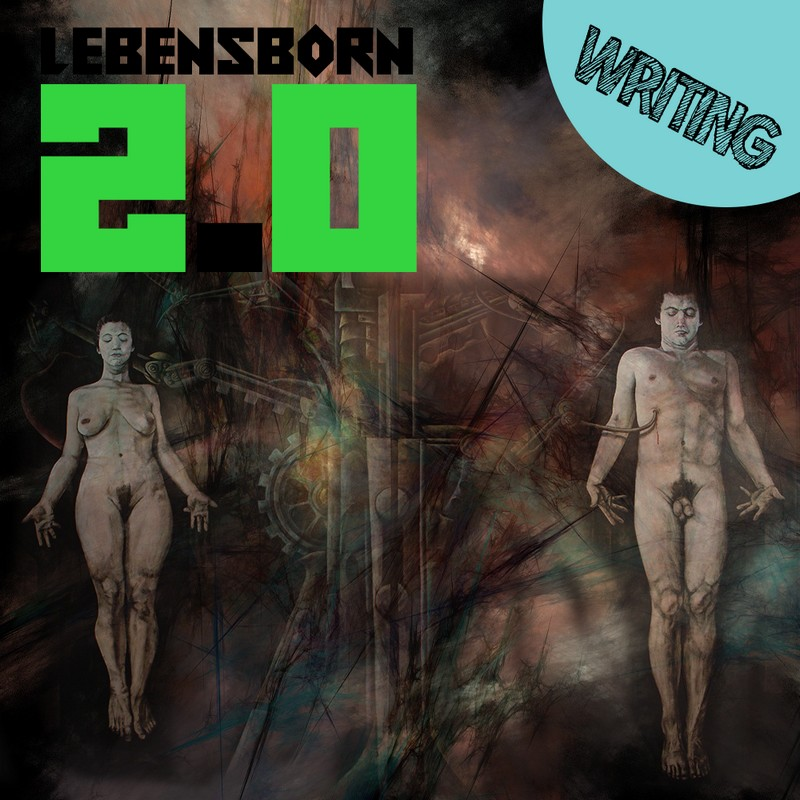
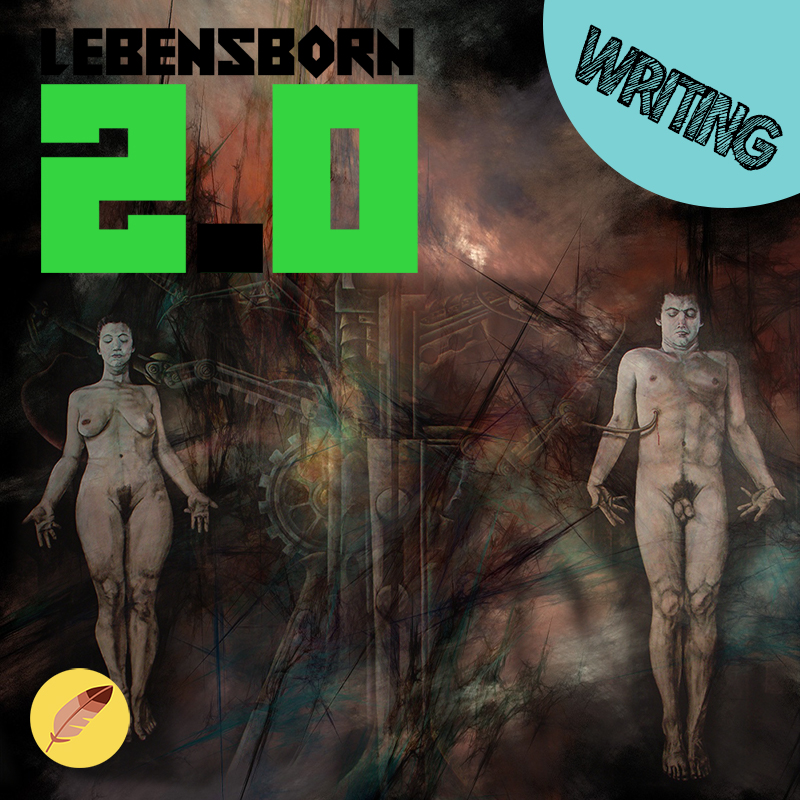
update of games & writing page

diff --git a/gamesandwriting.html b/gamesandwriting.html
@@ -30,6 +30,13 @@
         </ul>
     </nav>
 
+    <div class="small column margin">
+        <p>You will find here a collection of the projects I've written. Any project with the icon <img class="icon"
+                src="./img/writingicone2.png"> contains a readable and/or downloadable writing sample. </p>
+    </div>
+
+    <hr class="separator" style="width: 20%">
+
     <div class='portfolio'>
         <div class='row'>
             <div class='column'>

diff --git a/CSS/general.css b/CSS/general.css
@@ -14,6 +14,10 @@ body {
     flex: 1 0 auto;
 }
 
+.icon {
+    max-width: 40px;
+}
+
 /*HEADER*/
 
 .header {
@@ -83,7 +87,6 @@ footer>p {
 
 .portfolio {
     display: flex;
-    margin-top: 60px;
 }
 
 .row {

diff --git a/CSS/selectionpages.css b/CSS/selectionpages.css
@@ -79,6 +79,11 @@
     height: 20vh;
 }
 
+.margin {
+    margin-top: 3vh;
+    margin-bottom: 3vh;
+}
+
 @media only screen and (max-width: 600px) {
     .longrow {
         flex-direction: column;
